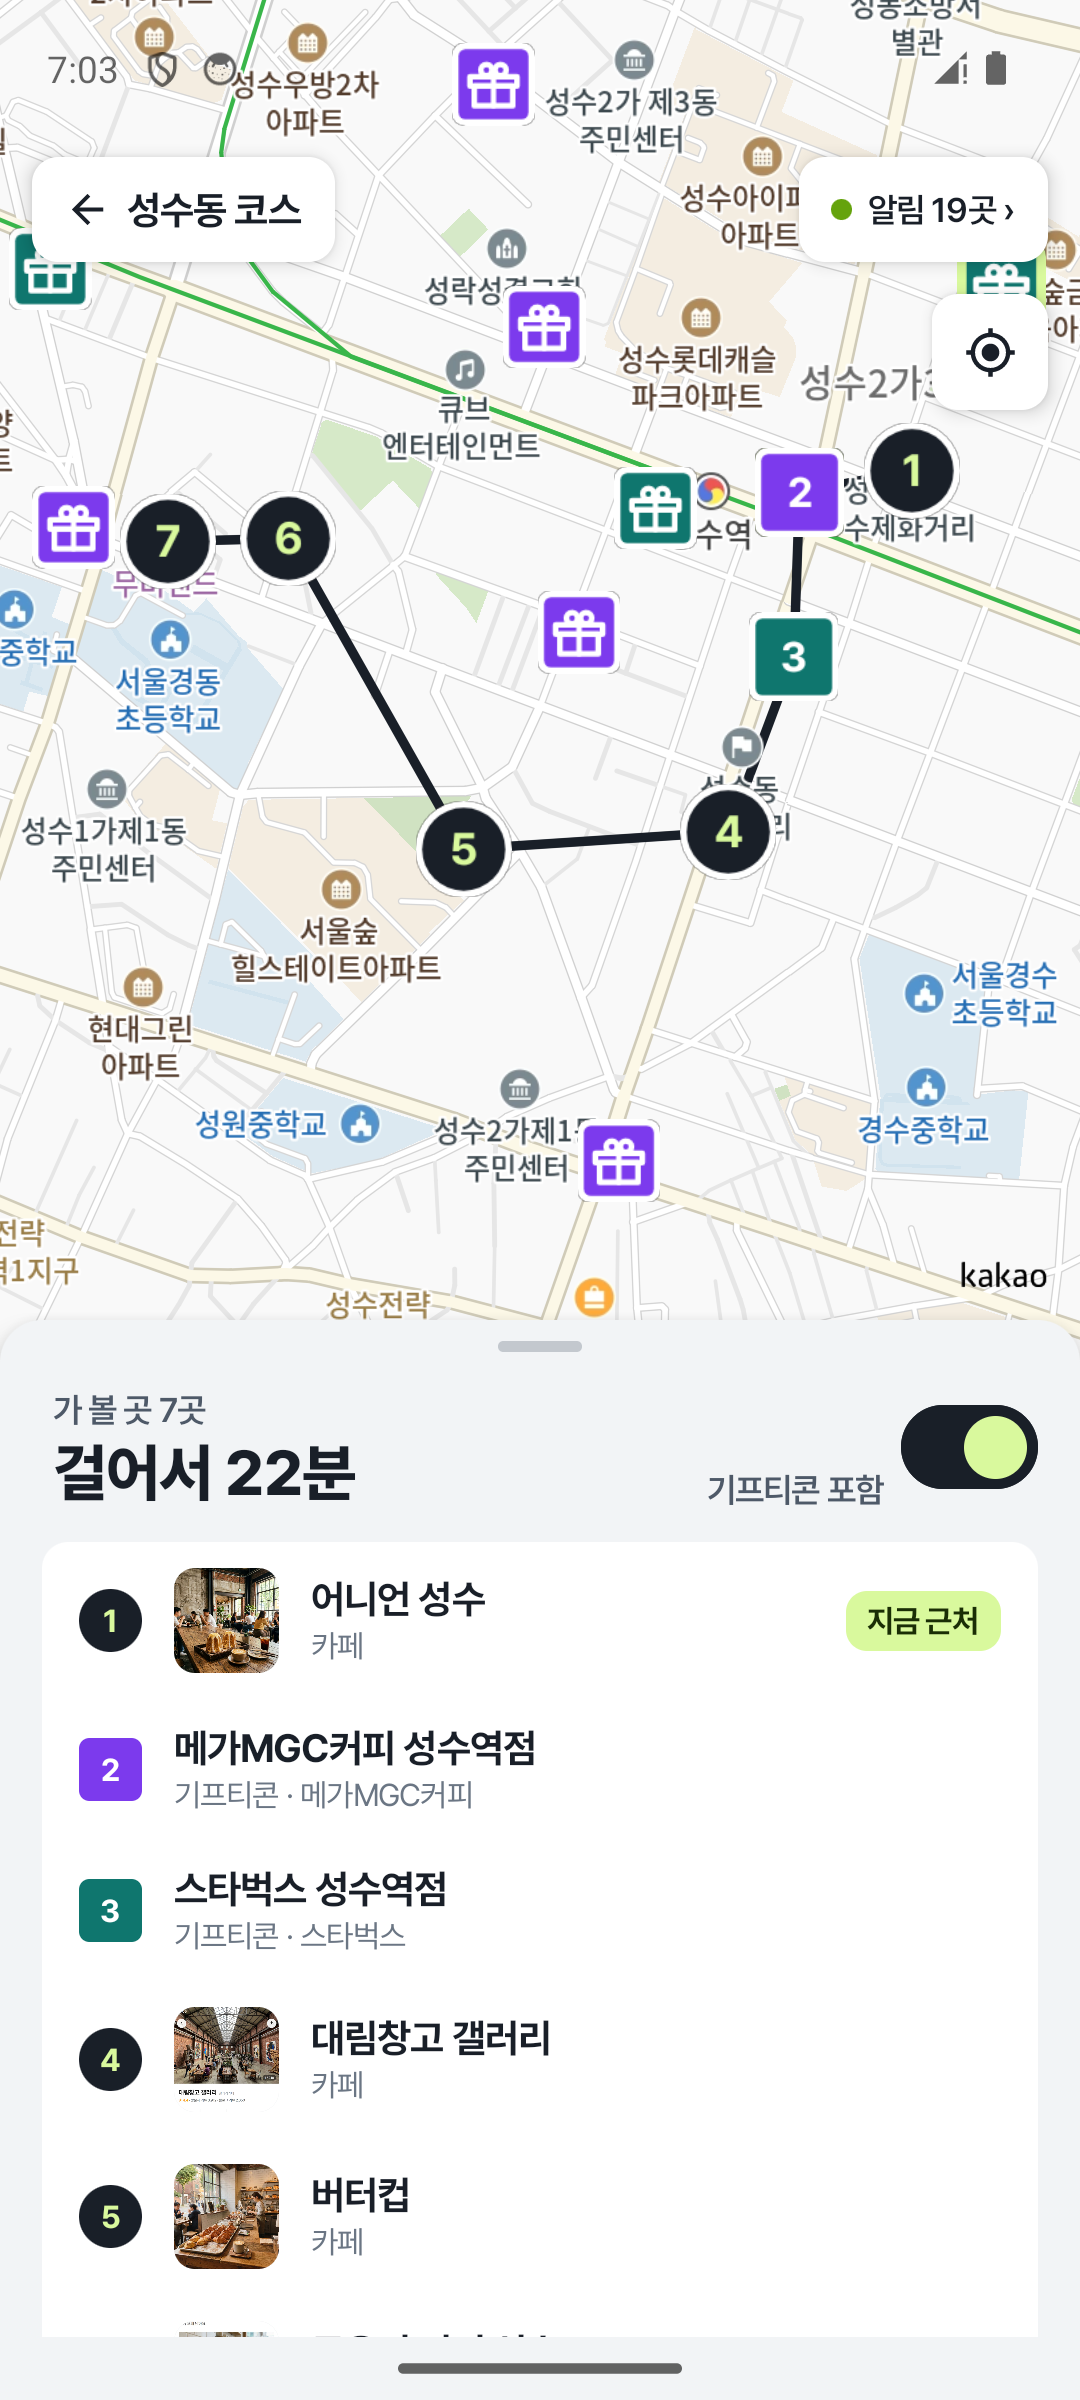
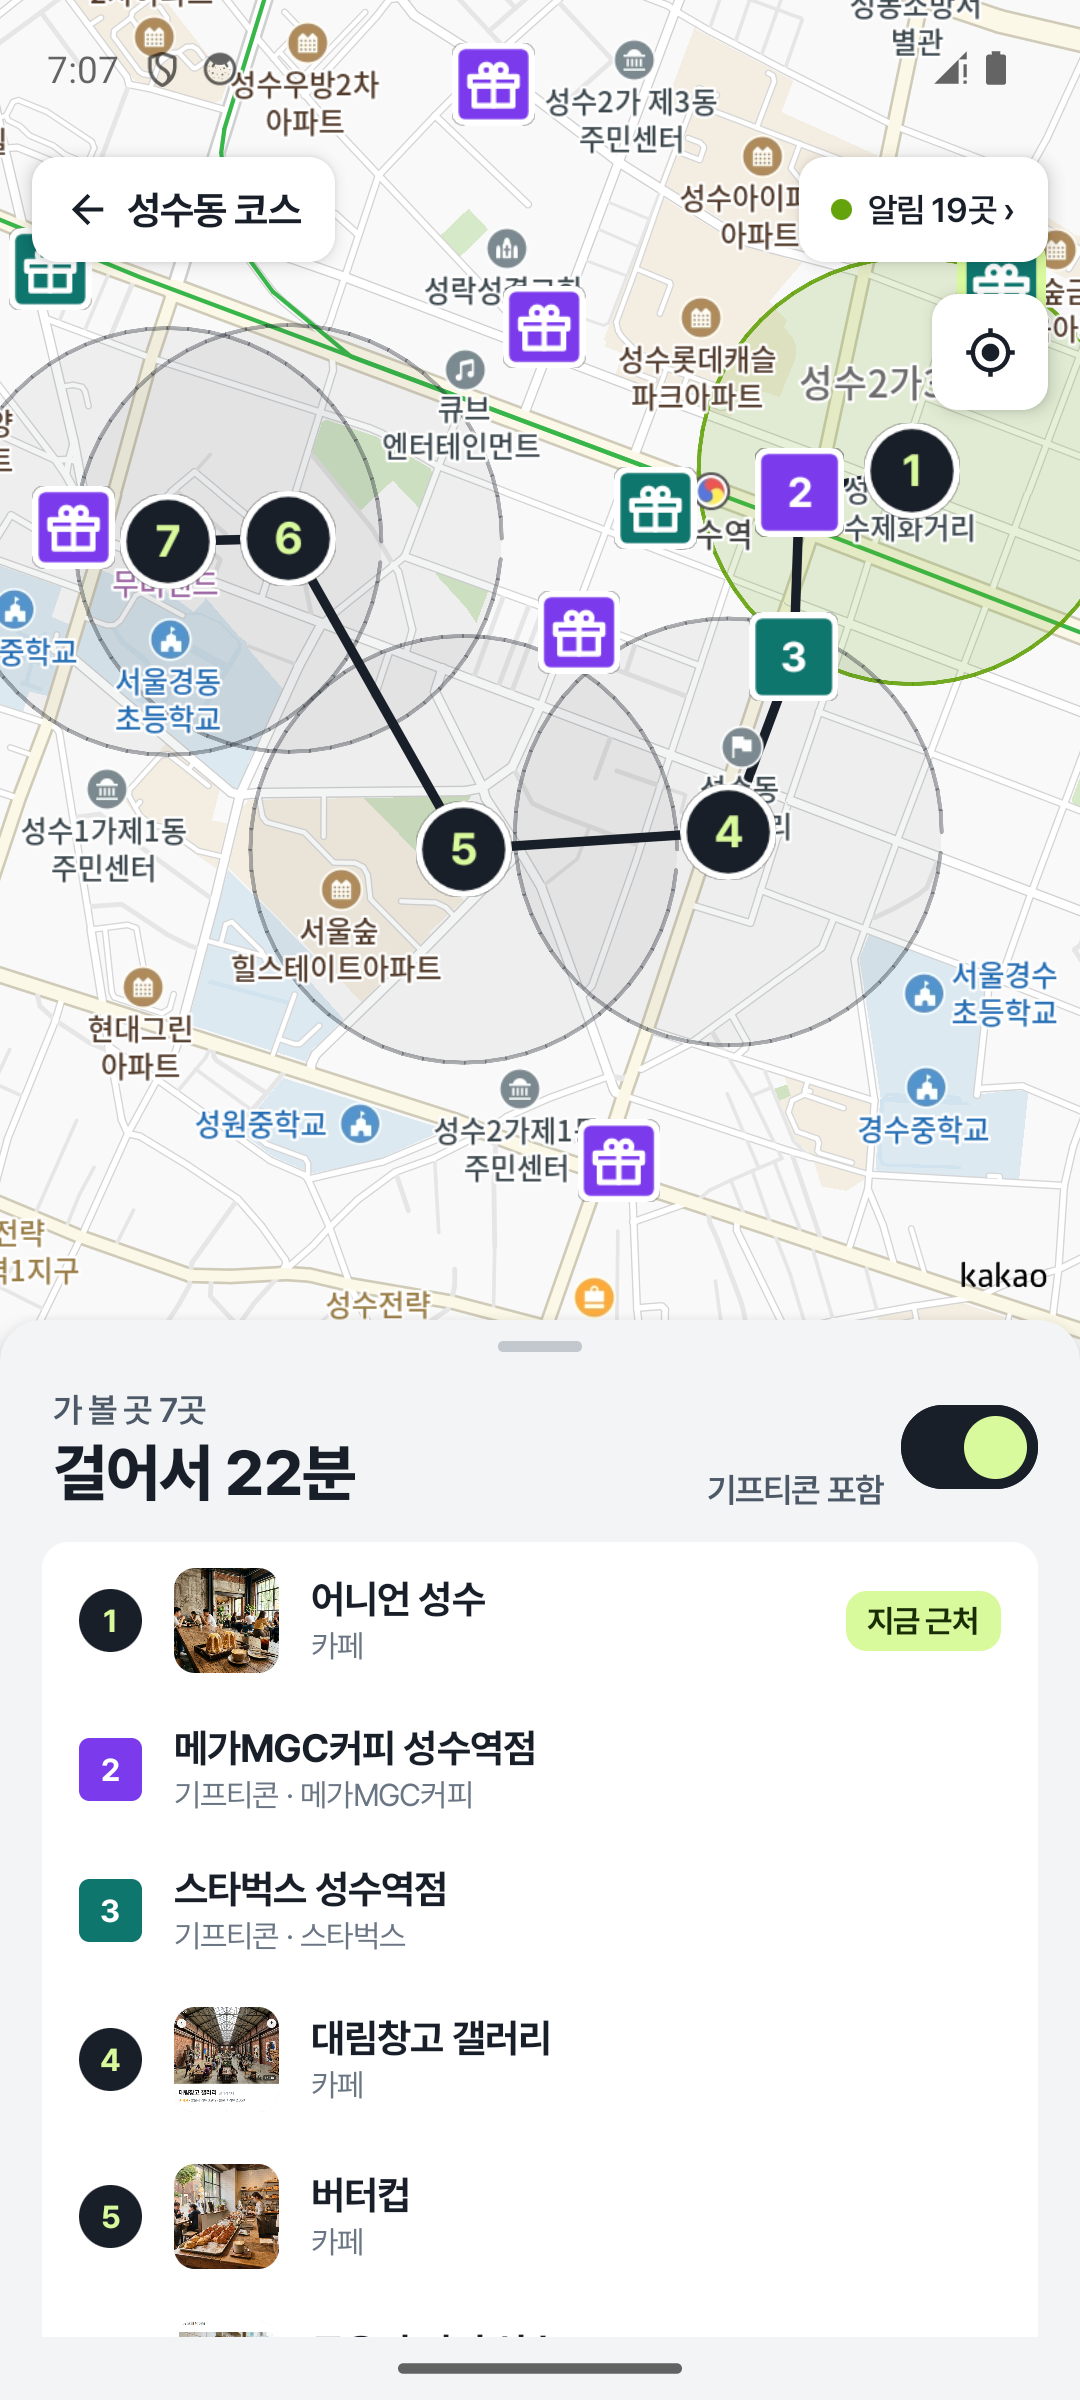
직선 동선일 때는 알림 반경 원을 보여 주기
걷는 길(TMAP)이 오기 전 직선 동선에서는 반경 원을 그대로 두고, 걷는 길이 오면 숨겨요. README 직선 스크린샷 2장도 다시 찍었어요.

diff --git a/app/src/main/java/com/capstone/snapspot/ui/home/HomeScreen.kt b/app/src/main/java/com/capstone/snapspot/ui/home/HomeScreen.kt
@@ -169,18 +169,20 @@ fun HomeScreen(
     // An open bundle numbers its stops in walking order; coupon stops are the branch the route picked.
     val stops = open?.let { routeStops(it) }.orEmpty()
     val numberOf = stops.mapIndexedNotNull { i, st -> st.placeId?.let { it to i + 1 } }.toMap()
+    // Follows the streets once TMAP answers, straight lines until then.
+    val walked = open?.let { walks[it.walkKey]?.line }
     val mapPlaces = places.map {
         MapPlace(
-            // An open route shows the line and numbered stops only: alert circles would clutter it.
-            it.id, Coords(it.latitude, it.longitude), if (open != null) 0.0 else it.radius.toDouble(), it.imageUri, placeEnded(it, now),
+            // Alert circles stay up while the route is still straight lines; once it follows the streets,
+            // only the line and numbered stops show, since the circles would clutter it.
+            it.id, Coords(it.latitude, it.longitude), if (walked != null) 0.0 else it.radius.toDouble(), it.imageUri, placeEnded(it, now),
             it.id == selected, numberOf[it.id], near = it.id in near,
         )
     } + stops.mapIndexedNotNull { i, st ->
         if (st.placeId != null) null
         else MapPlace("route-$i", st.at, 0.0, null, ended = false, selected = false, number = i + 1, couponStop = true, tone = tones[brandKey(st.brand.orEmpty())] ?: 0)
     }
-    // Follows the streets once TMAP answers, straight lines until then.
-    val routeLine = if (open == null) emptyList() else walks[open.walkKey]?.line ?: open.line
+    val routeLine = if (open == null) emptyList() else walked ?: open.line
     val mapBranches = win?.branches.orEmpty().map { (id, b) ->
         val at = Coords(b.latitude, b.longitude)
         MapBranch(id, at, b.urgent, here?.let { distanceMeters(it, at) <= BRANCH_RADIUS_M } == true, tones[brandKeyOfRegion(id)] ?: 0)

diff --git a/README.md b/README.md
@@ -182,13 +182,13 @@
 - **동선 길이**: Held-Karp는 정답이라 늘 가장 짧아요(0%). 2-opt·Or-opt는 정답보다 몇 % 길 수 있어요.
 - 그래서 기준은 "어느 쪽이 빠른가"가 아니라 **"정답을 한도 안에 낼 수 있는가"**예요. Held-Karp가 한도에 닿는 12~13곳보다 한 칸 여유를 두고 11곳까지 Held-Karp를 쓰고, 12곳부터 2-opt·Or-opt로 바꿔요.
 <p>
-  <img src="docs/screenshots/bundle-straight.png" width="180" alt="걷는 길을 받기 전의 성수동 코스. 직선 거리로 정한 순서대로 장소 1~5번을 직선으로 잇고, 가운데 버터컵(3번)에서 꺾이는 동선과 직선 거리로 추정한 '걸어서 21분'" />
-  <img src="docs/screenshots/bundle-route.png" width="180" alt="같은 코스를 실제 걷는 길로 다시 그린 동선. 장소 1~5번을 골목길로 잇고 '걸어서 21분'" />
-  <img src="docs/screenshots/bundle-straight-coupon.png" width="180" alt="기프티콘 포함을 켠 직선 동선. 메가MGC커피 성수역점(보라 네모 2번)과 스타벅스 성수역점(청록 네모 3번)을 출발 직후에 들르고 7곳을 직선으로 잇는 동선, 추정 '걸어서 22분'" />
+  <img src="docs/screenshots/bundle-straight.png" width="180" alt="걷는 길을 받기 전의 성수동 코스. 직선 거리로 정한 순서대로 장소 1~5번을 직선으로 잇고, 가운데 버터컵(3번)에서 꺾이는 동선과 장소마다 알림 반경 원, 직선 거리로 추정한 '걸어서 21분'" />
+  <img src="docs/screenshots/bundle-route.png" width="180" alt="같은 코스를 실제 걷는 길로 다시 그린 동선. 반경 원은 숨기고 장소 1~5번을 골목길로 잇고 '걸어서 21분'" />
+  <img src="docs/screenshots/bundle-straight-coupon.png" width="180" alt="기프티콘 포함을 켠 직선 동선. 메가MGC커피 성수역점(보라 네모 2번)과 스타벅스 성수역점(청록 네모 3번)을 출발 직후에 들르고 7곳을 직선으로 잇는 동선과 알림 반경 원, 추정 '걸어서 22분'" />
   <img src="docs/screenshots/bundle-coupon.png" width="180" alt="같은 기프티콘 포함 동선을 실제 걷는 길로 그린 화면. 7곳을 '걸어서 23분'에 도는 동선" />
 </p>
 
-왼쪽부터: TMAP 답이 오기 전 직선 동선(추정 21분) → 실제 걷는 길로 바꾼 동선(21분) → 기프티콘 지점을 넣은 직선 동선(추정 22분) → 같은 동선을 걷는 길로(23분). 기프티콘을 켜면 지점마다 따로 고르지 않고, 들를 곳 전체를 보고 메가MGC커피는 성수역점, 스타벅스는 성수역점처럼 동선에 맞는 지점을 함께 골라요. 동선을 열면 지도가 경로 전체가 보이도록 맞춰져요.
+왼쪽부터: TMAP 답이 오기 전 직선 동선(추정 21분) → 실제 걷는 길로 바꾼 동선(21분) → 기프티콘 지점을 넣은 직선 동선(추정 22분) → 같은 동선을 걷는 길로(23분). 기프티콘을 켜면 지점마다 따로 고르지 않고, 들를 곳 전체를 보고 메가MGC커피는 성수역점, 스타벅스는 성수역점처럼 동선에 맞는 지점을 함께 골라요. 동선을 열면 지도가 경로 전체가 보이도록 맞춰져요. 직선 동선일 때는 알림 반경 원을 같이 보여 주고, 걷는 길이 오면 원을 숨겨 동선만 보여요.
 
 ## 브랜드 지점 찾기
 
